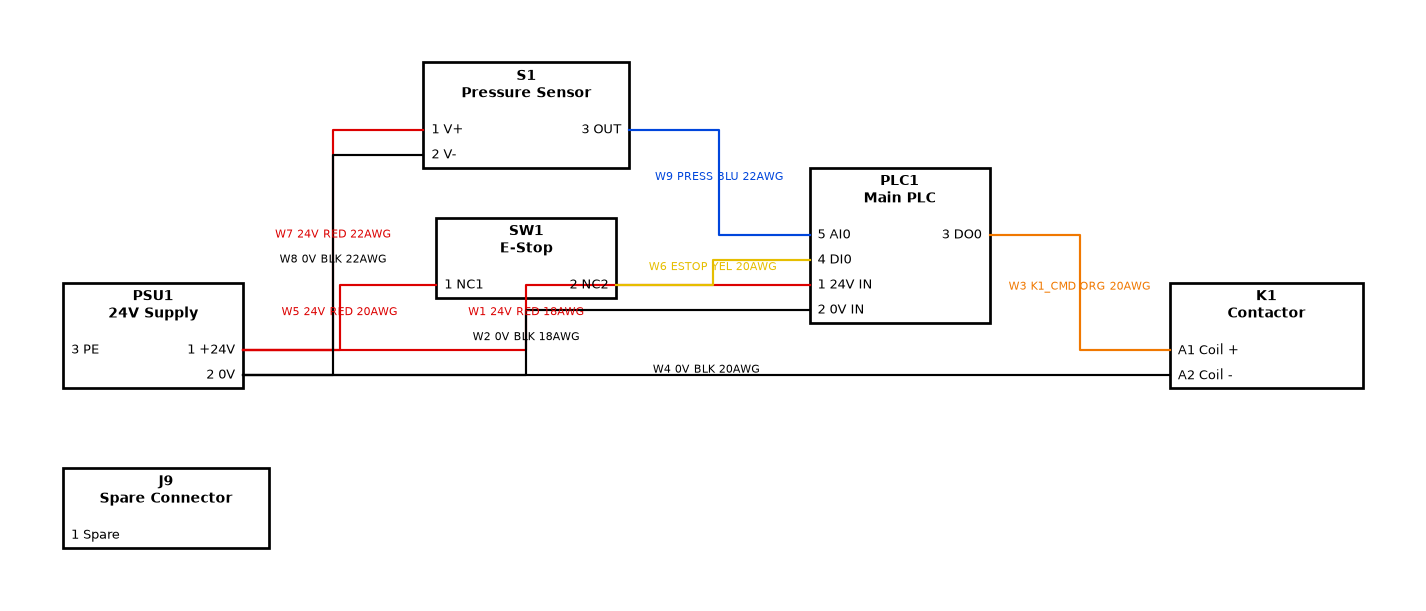
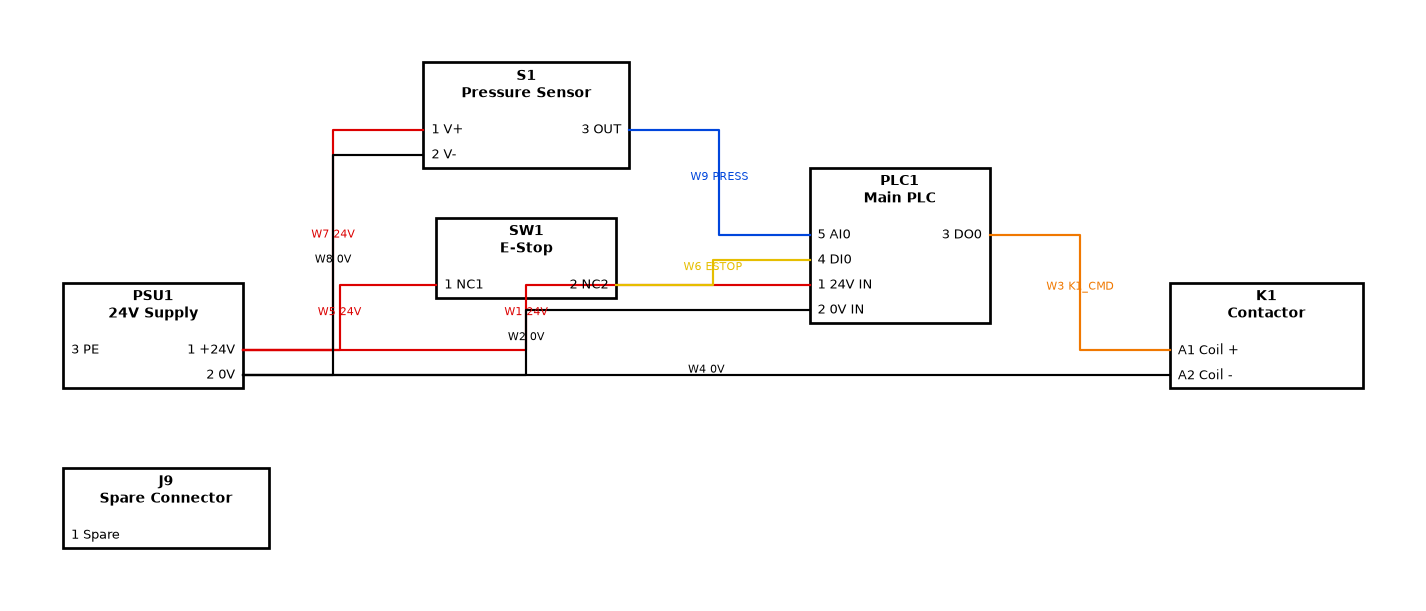
Live wire labels with page Shape Data toggles; add relabel.py
Labels default to WireID + Signal and are built from each wire's Shape Data, so toggling or editing updates them without regenerating. relabel.py converts existing drawings. README documents editing box titles.

diff --git a/visio_draw.py b/visio_draw.py
@@ -16,14 +16,50 @@ ROW_LAST = -2
 SEC_PROP = 243
 ALIGN_LEFT, ALIGN_RIGHT = 0, 2
 SELECT = 2  # visSelect
+PROP_TYPE_BOOL = 3
+FMT_STR_NORMAL = 37  # visFmtStrNormal
 PIN_H = 0.22
+
+# Wire Shape Data rows: (row name, layout key, shown in the label by default)
+WIRE_FIELDS = (("WireID", "id", True), ("Signal", "signal", True), ("Color", "color", False), ("Gauge", "gauge", False))
+
+
+def _q(value):
+    return '"' + str(value).replace('"', '""') + '"'
 
 
 def _set_prop(shape, name, value):
     if not value:
         return
     shape.AddNamedRow(SEC_PROP, name, 0)
-    shape.CellsU(f"Prop.{name}").FormulaU = '"' + str(value).replace('"', '""') + '"'
+    shape.CellsU(f"Prop.{name}").FormulaU = _q(value)
+
+
+def _ensure_prop(sheet, name, label=None, type_=None, default=None):
+    """Create Prop.<name> if missing (setting label/type/default); never overwrite an existing row."""
+    if sheet.CellExistsU(f"Prop.{name}", 0):
+        return
+    sheet.AddNamedRow(SEC_PROP, name, 0)
+    if label:
+        sheet.CellsU(f"Prop.{name}.Label").FormulaU = _q(label)
+    if type_ is not None:
+        sheet.CellsU(f"Prop.{name}.Type").FormulaU = str(type_)
+    if default is not None:
+        sheet.CellsU(f"Prop.{name}").FormulaU = default
+
+
+def add_label_toggles(page):
+    """Page Shape Data switches (Show WireID / Signal / Color / Gauge) used by every wire label."""
+    for name, _, shown in WIRE_FIELDS:
+        _ensure_prop(page.PageSheet, f"Show{name}", f"Show wire {name}", PROP_TYPE_BOOL, "TRUE" if shown else "FALSE")
+
+
+def set_live_label(conn):
+    """Replace a wire's text with a field built from its Shape Data and the page toggles."""
+    for name, _, _ in WIRE_FIELDS:
+        _ensure_prop(conn, name, default='""')
+    formula = "&".join(f'IF(ThePage!Prop.Show{name},Prop.{name}&" ","")' for name, _, _ in WIRE_FIELDS)
+    conn.Characters.AddCustomFieldU(formula, FMT_STR_NORMAL)
 
 
 def draw(layout, out_path):
@@ -33,6 +69,7 @@ def draw(layout, out_path):
     page_h = layout["page"]["height"]
     page.PageSheet.CellsU("PageWidth").FormulaU = f"{layout['page']['width']} in"
     page.PageSheet.CellsU("PageHeight").FormulaU = f"{page_h} in"
+    add_label_toggles(page)
 
     window = app.ActiveWindow
     pins = {}  # (ref, pin) -> (device group shape, connection point row)
@@ -100,13 +137,13 @@ def draw(layout, out_path):
         conn.CellsU("BeginX").GlueTo(a.CellsSRC(SEC_CONNECTION_PTS, a_row, 0))
         conn.CellsU("EndX").GlueTo(b.CellsSRC(SEC_CONNECTION_PTS, b_row, 0))
         conn.Name = f"Wire {w['id']}"
-        conn.Text = w["label"]
         r, g, bl = rgb(w["color"])
         conn.CellsU("LineColor").FormulaU = f"RGB({r},{g},{bl})"
         conn.CellsU("EndArrow").FormulaU = "0"
         conn.CellsU("Char.Size").FormulaU = "7 pt"
-        for key, name in (("id", "WireID"), ("signal", "Signal"), ("color", "Color"), ("gauge", "Gauge")):
-            _set_prop(conn, name, w[key])
+        for name, key, _ in WIRE_FIELDS:
+            _ensure_prop(conn, name, default=_q(w[key]))
+        set_live_label(conn)
 
     doc.SaveAs(os.path.abspath(out_path))
     return doc

diff --git a/relabel.py b/relabel.py
@@ -1,0 +1,55 @@
+"""Switch wire labels on an existing drawing to live labels (W# + Signal by default).
+
+Adds the Show WireID / Signal / Color / Gauge toggles to each page's Shape Data and replaces
+every wire's text with a field built from its Shape Data. Box layout and hand edits to
+positions are untouched; hand-typed wire text is replaced.
+
+Usage:
+  python relabel.py drawing.vsdx   # open, update and save the file
+  python relabel.py                # update the drawing currently open in Visio (you save it)
+"""
+import os
+import sys
+
+import win32com.client
+
+import visio_draw
+
+
+def relabel_document(doc):
+    count = 0
+    for i in range(1, doc.Pages.Count + 1):
+        page = doc.Pages(i)
+        wires = [page.Shapes(j) for j in range(1, page.Shapes.Count + 1)]
+        wires = [s for s in wires if s.CellExistsU("Prop.WireID", 0)]
+        if not wires:
+            continue
+        visio_draw.add_label_toggles(page)
+        for shape in wires:
+            visio_draw.set_live_label(shape)
+        count += len(wires)
+    return count
+
+
+def main():
+    if len(sys.argv) > 2:
+        sys.exit(__doc__)
+    if len(sys.argv) == 2:
+        app = win32com.client.Dispatch("Visio.Application")
+        doc = app.Documents.Open(os.path.abspath(sys.argv[1]))
+        n = relabel_document(doc)
+        doc.Save()
+        print(f"relabeled {n} wires in {sys.argv[1]} (saved)")
+    else:
+        try:
+            doc = win32com.client.GetActiveObject("Visio.Application").ActiveDocument
+        except Exception:
+            doc = None
+        if doc is None:
+            sys.exit("No drawing is open in Visio. Open one, or pass a .vsdx path.")
+        n = relabel_document(doc)
+        print(f"relabeled {n} wires in {doc.Name} (not saved - save it in Visio)")
+
+
+if __name__ == "__main__":
+    main()

diff --git a/layout.py b/layout.py
@@ -143,7 +143,7 @@ def build_layout(devices, wires):
                 "signal": w.signal,
                 "color": w.color,
                 "gauge": w.gauge,
-                "label": " ".join(x for x in (w.id, w.signal, w.color, w.gauge) if x),
+                "label": " ".join(x for x in (w.id, w.signal) if x),
             }
             for w in wires
         ],

diff --git a/README.md b/README.md
@@ -69,7 +69,7 @@ Use one workbook with two sheets named `Devices` and `Wires`, or two separate wo
 | W3 | PLC1 | 3 | K1 | A1 | K1_CMD | ORG | 20AWG |
 
 - `WireID`, `FromRef`, `FromPin`, `ToRef`, `ToPin` are required. `Signal`, `Color`, `Gauge` are optional.
-- The connector is labeled with the ID, signal, color and gauge.
+- The connector label shows the wire ID and signal by default; color and gauge can be switched on in Visio (see [Wire labels](#wire-labels)).
 - The line takes its color from the first word of `Color`. Known names (`RED`, `BLK`, `BLU`, `GRN`, `YEL`, `ORG`, `WHT`, `BRN`, `VIO`, `GRY` and their long forms) are in [colors.py](colors.py); unknown colors draw black. Edit that file to add your own.
 
 ## 4. Build
@@ -121,6 +121,29 @@ python visio_draw.py layout.json wiring.vsdx
 - Each connection point is linked to its pin label. To move a pin, click the device, click the pin label again to select it inside the group, and drag it anywhere in the box: the connection point and its wire follow, and it snaps to whichever side of the box the label is nearer to (the label text aligns to that side too). Visio can't drag a connection point itself, so the label is the handle.
 - The layout puts each pin on the side facing the device it connects to. A wire that skips a column can pass over a box in between; drag the connector's elbow to fix it.
 
+### Wire labels
+
+Wire labels are live: each one is built from the wire's Shape Data and four switches stored on the page.
+
+- **Choose what every label shows:** click an empty part of the page, open **Data > Shape Data Window**, and set `Show wire WireID`, `Show wire Signal`, `Show wire Color` and `Show wire Gauge` to TRUE or FALSE. All wires on the page update at once. By default only the ID and signal are shown.
+- **Change one wire:** select it and edit its `WireID`, `Signal`, `Color` or `Gauge` in the Shape Data window; its label updates. (The line color doesn't change; set that with Line Color.)
+- Typing directly over a wire's label replaces the live label with plain text for that wire. Run `relabel.py` to restore it.
+
+**Drawings made before live labels** have plain-text labels. Convert them without regenerating:
+
+```powershell
+python relabel.py wiring.vsdx    # opens, updates and saves the file
+python relabel.py                # updates the drawing open in Visio; save it yourself
+```
+
+This only touches wire labels (it adds the page switches and rebuilds each wire's text); your box positions and routing are kept.
+
+### Box titles
+
+The device name and description are ordinary text on the box. To edit them, click the device, click the box again to select it inside the group, then double-click (or press F2) and type; Enter adds a new line. You can also put line breaks in the spreadsheet's `Description` cell (Alt+Enter in Excel).
+
+The header area is sized for two lines, so extra lines overlap the top pin labels: drag the box taller, or move those labels down (their wires follow). Editing the box text doesn't change the device's `Description` Shape Data.
+
 ## Limitations
 
 - Each run draws a **new** drawing. It does not update one you've edited by hand, so keep hand edits in the generated file and re-run only when the netlist changes substantially.
@@ -136,5 +159,6 @@ python visio_draw.py layout.json wiring.vsdx
 | `layout.py` | automatic layout (layered, left to right) |
 | `preview.py` | writes the PNG preview |
 | `visio_draw.py` | draws the layout in Visio via COM |
+| `relabel.py` | converts wire labels on an existing drawing to live labels |
 | `colors.py` | wire color names to RGB |
 | `make_sample.py` | creates `wiring_sample.xlsx` |
